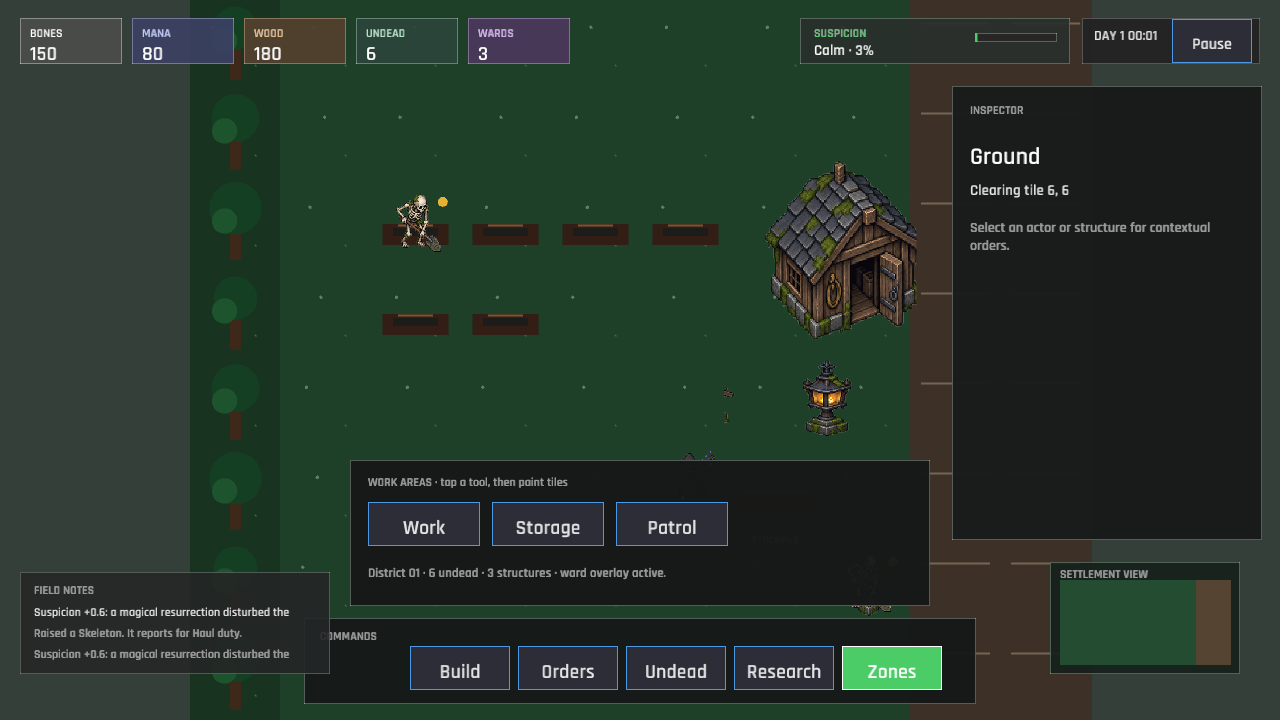
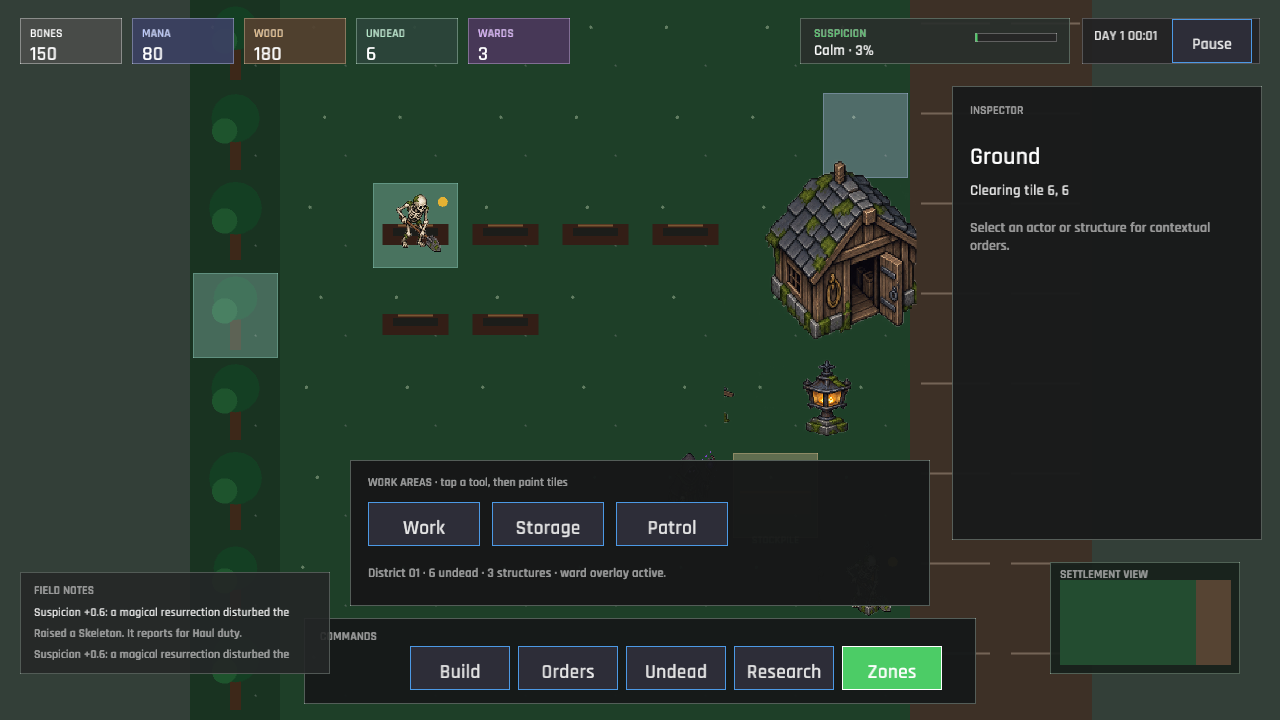
The marked ground now tells workers where to labor and hide (work, storage, and patrol zones, first colony slice)
Painted zones previously decorated the cemetery but did not change simulation decisions. Give Work zones preferred dig and wood targets, Storage zones a shared haul anchor, and Patrol zones a guard post, while retaining the original fallback targets when a zone is empty or does not contain a suitable task.

Centralize the zone anchor and membership queries on WorldState, update the colony capture to show all three area types, and explain their behavior in the work-area panel and GDD. Focused tests cover storage and patrol anchors, zone-guided digging, and guard placement.

cargo fmt, cargo test (28 tests), strict Clippy, diff checks, visual capture, and the default Windows/WebGL publisher pass. Preview deployment and catalog sync complete; the optional local Project Roost tracking endpoint still refuses its connection.

diff --git a/src/engine/jobs.rs b/src/engine/jobs.rs
@@ -2,7 +2,7 @@
 
 use crate::data::GameData;
 use crate::engine::{corpses, progression, suspicion};
-use crate::state::{BuildingKind, GameSession, JobKind, PlotStatus, WorkerStatus};
+use crate::state::{BuildingKind, GameSession, JobKind, PlotStatus, WorkerStatus, ZoneKind};
 use macroquad_toolkit::grid::TilePos;
 
 pub fn assign_job(session: &mut GameSession, job: JobKind) -> Result<(), String> {
@@ -125,7 +125,7 @@ pub fn simulate(session: &mut GameSession, data: &GameData, dt: f32) -> Vec<Stri
                 guards += 1;
                 let worker = &mut session.workforce.workers[index];
                 worker.status = WorkerStatus::Hiding;
-                worker.position = crate::state::WorldState::guard_position(session.world.road_x);
+                worker.position = session.world.patrol_position();
                 worker.progress = 0.0;
             }
             JobKind::Dig => simulate_dig(
@@ -242,7 +242,17 @@ fn simulate_dig(
                     && selected == Some(plot.id)
             })
             .map(|plot| plot.id);
-        let target_id = selected_target.or_else(|| {
+        let designated_target = session
+            .world
+            .plots
+            .iter()
+            .find(|plot| {
+                plot.status == PlotStatus::Ready
+                    && !claimed.contains(&plot.id)
+                    && session.world.zone_contains(ZoneKind::Work, plot.position)
+            })
+            .map(|plot| plot.id);
+        let target_id = selected_target.or(designated_target).or_else(|| {
             session
                 .world
                 .plots
@@ -345,7 +355,13 @@ fn simulate_wood(
     let job = data.jobs.get("wood").expect("validated wood job");
     let worker = &mut session.workforce.workers[index];
     worker.status = WorkerStatus::Working;
-    worker.position = session.world.forest_tiles[0];
+    worker.position = session
+        .world
+        .forest_tiles
+        .iter()
+        .find(|tile| session.world.zone_contains(ZoneKind::Work, **tile))
+        .copied()
+        .unwrap_or(session.world.forest_tiles[0]);
     worker.progress += dt * speed * job.base_speed;
     if worker.progress >= job.work_seconds {
         worker.progress = 0.0;

diff --git a/src/engine/jobs/tests.rs b/src/engine/jobs/tests.rs
@@ -97,3 +97,32 @@ fn refine_order_requires_a_completed_kiln() {
     let mut session = GameSession::new(&data.config);
     assert!(assign_job(&mut session, JobKind::Refine).is_err());
 }
+
+#[test]
+fn work_zone_guides_an_automatic_dig_target() {
+    let data = crate::data::GameData::load().unwrap();
+    let mut session = GameSession::new(&data.config);
+    session.progress.unlocked_plots = 2;
+    session.world.plots[1].status = PlotStatus::Ready;
+    session.world.selected_plot = None;
+    session.world.zones.push(crate::state::Zone {
+        kind: crate::state::ZoneKind::Work,
+        tiles: vec![session.world.plots[1].position],
+    });
+    simulate(&mut session, &data, 0.0);
+    assert_eq!(session.workforce.workers[0].target_plot, Some(1));
+}
+
+#[test]
+fn patrol_zone_moves_guards_to_its_anchor() {
+    let data = crate::data::GameData::load().unwrap();
+    let mut session = GameSession::new(&data.config);
+    let patrol = macroquad_toolkit::grid::TilePos::new(5, 1);
+    session.world.zones.push(crate::state::Zone {
+        kind: crate::state::ZoneKind::Patrol,
+        tiles: vec![patrol],
+    });
+    session.workforce.workers[0].assignment = JobKind::Guard;
+    simulate(&mut session, &data, 1.0);
+    assert_eq!(session.workforce.workers[0].position, patrol);
+}

diff --git a/src/state.rs b/src/state.rs
@@ -279,11 +279,25 @@ impl WorldState {
     }
 
     pub fn storage_position(&self) -> TilePos {
+        self.zone_anchor(ZoneKind::Storage, Self::stockpile_position())
+    }
+
+    pub fn patrol_position(&self) -> TilePos {
+        self.zone_anchor(ZoneKind::Patrol, Self::guard_position(self.road_x))
+    }
+
+    pub fn zone_anchor(&self, kind: ZoneKind, fallback: TilePos) -> TilePos {
         self.zones
             .iter()
-            .find(|zone| zone.kind == ZoneKind::Storage)
+            .find(|zone| zone.kind == kind)
             .and_then(|zone| zone.tiles.first().copied())
-            .unwrap_or_else(Self::stockpile_position)
+            .unwrap_or(fallback)
+    }
+
+    pub fn zone_contains(&self, kind: ZoneKind, tile: TilePos) -> bool {
+        self.zones
+            .iter()
+            .any(|zone| zone.kind == kind && zone.tiles.contains(&tile))
     }
 }
 

diff --git a/src/state/tests.rs b/src/state/tests.rs
@@ -45,3 +45,24 @@ fn starter_save_shape_migrates_without_losing_player_values() {
     assert_eq!(migrated.economy.bones, 17);
     assert_eq!(migrated.progress.elapsed_seconds, 1.5);
 }
+
+#[test]
+fn zone_helpers_expose_storage_and_patrol_anchors() {
+    let data = crate::data::GameData::load().unwrap();
+    let mut session = GameSession::new(&data.config);
+    let storage = TilePos::new(4, 5);
+    let patrol = TilePos::new(5, 1);
+    session.world.zones = vec![
+        Zone {
+            kind: ZoneKind::Storage,
+            tiles: vec![storage],
+        },
+        Zone {
+            kind: ZoneKind::Patrol,
+            tiles: vec![patrol],
+        },
+    ];
+    assert_eq!(session.world.storage_position(), storage);
+    assert_eq!(session.world.patrol_position(), patrol);
+    assert!(session.world.zone_contains(ZoneKind::Storage, storage));
+}

diff --git a/src/game.rs b/src/game.rs
@@ -216,6 +216,20 @@ impl Game {
         for _ in 0..5 {
             let _ = corpses::raise(&mut self.session, &self.data, UndeadKind::Skeleton);
         }
+        self.session.world.zones = vec![
+            Zone {
+                kind: ZoneKind::Work,
+                tiles: vec![TilePos::new(2, 2), TilePos::new(0, 3)],
+            },
+            Zone {
+                kind: ZoneKind::Storage,
+                tiles: vec![TilePos::new(6, 5)],
+            },
+            Zone {
+                kind: ZoneKind::Patrol,
+                tiles: vec![TilePos::new(7, 1)],
+            },
+        ];
         self.session.world.selected = Some(Selection::Ground(TilePos::new(5, 5)));
         self.panel = Panel::Zones;
     }

diff --git a/src/ui/research.rs b/src/ui/research.rs
@@ -206,9 +206,11 @@ pub(super) fn draw_zones_panel(ctx: &UiContext<'_>, pointer: Pointer, actions: &
         .research
         .is_unlocked(Technology::OssuaryLogistics)
     {
-        "Storage zones now inform the hauler's next destination; population and alerts stay in the top strip.".to_owned()
+        "Storage zones choose haul destinations; Work focuses gathering, and Patrol places guards."
+            .to_owned()
     } else {
-        "Work and patrol markings are visible; Logistics will connect storage to routes.".to_owned()
+        "Work and patrol markings are visible; Logistics will connect storage and production."
+            .to_owned()
     };
     draw_text_block(
         &message,

diff --git a/gdd.md b/gdd.md
@@ -65,6 +65,11 @@ time, output, speed, suspicion, and guard mitigation from `jobs.json`. Corpse qu
 bands and Brute eligibility live in `corpses.json`; resurrection recipes live
 in `undead.json`.
 
+Painted Work areas guide digging and wood gathering, Storage areas choose the
+hauler's drop point, and Patrol areas choose the guard's post. An empty area
+keeps the original fallback target so marking a zone is never required to
+continue a job.
+
 ### 5.3 Suspicion and events
 
 Suspicion is clamped to 0–100 and advances through Calm, Rumour, Questioning,
@@ -127,10 +132,10 @@ right-drag and wheel camera controls supplement the touch path.
 
 The current implementation covers the first three visual-direction milestones:
 world-first UI, a convincing cemetery scene, and the first research transition.
-The next milestone is a deeper colony slice with walkability, linked storage,
-and one complete material-to-construction chain. Later work can add district
-summaries and domain controls only after the current interaction remains clear
-at smaller viewport sizes.
+The next milestone is a deeper colony slice with walkability and linked-storage
+routes around structure footprints. Later work can add district summaries and
+domain controls only after the current interaction remains clear at smaller
+viewport sizes.
 
 The detailed presentation decisions and review checklist live in
 `docs/visual-direction-and-ui-plan.md`.
